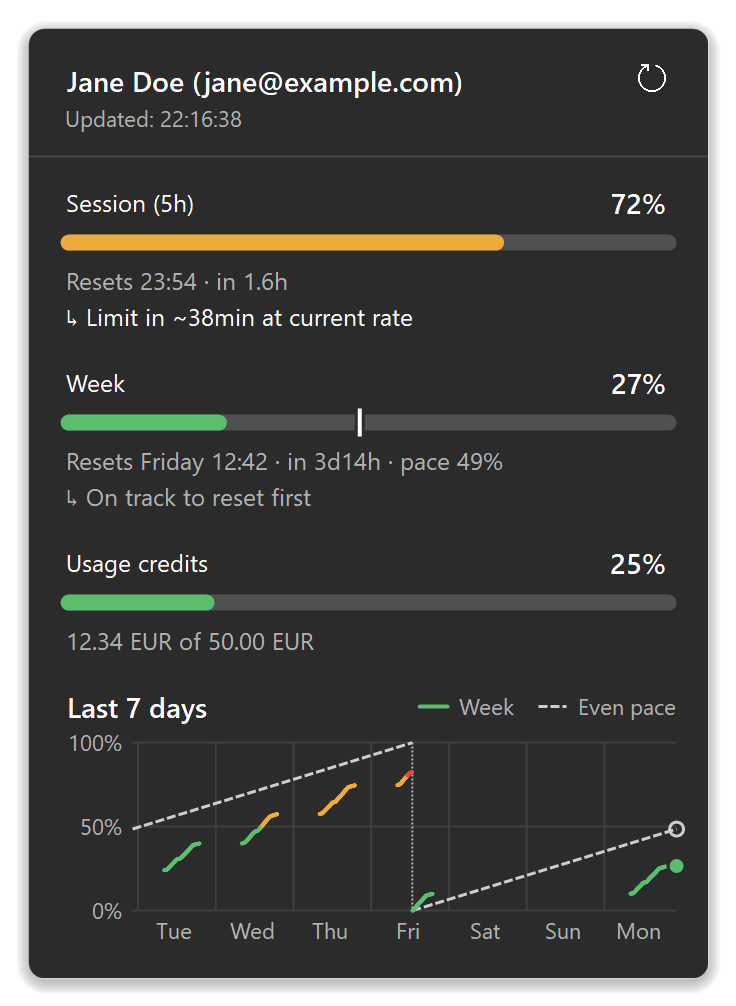
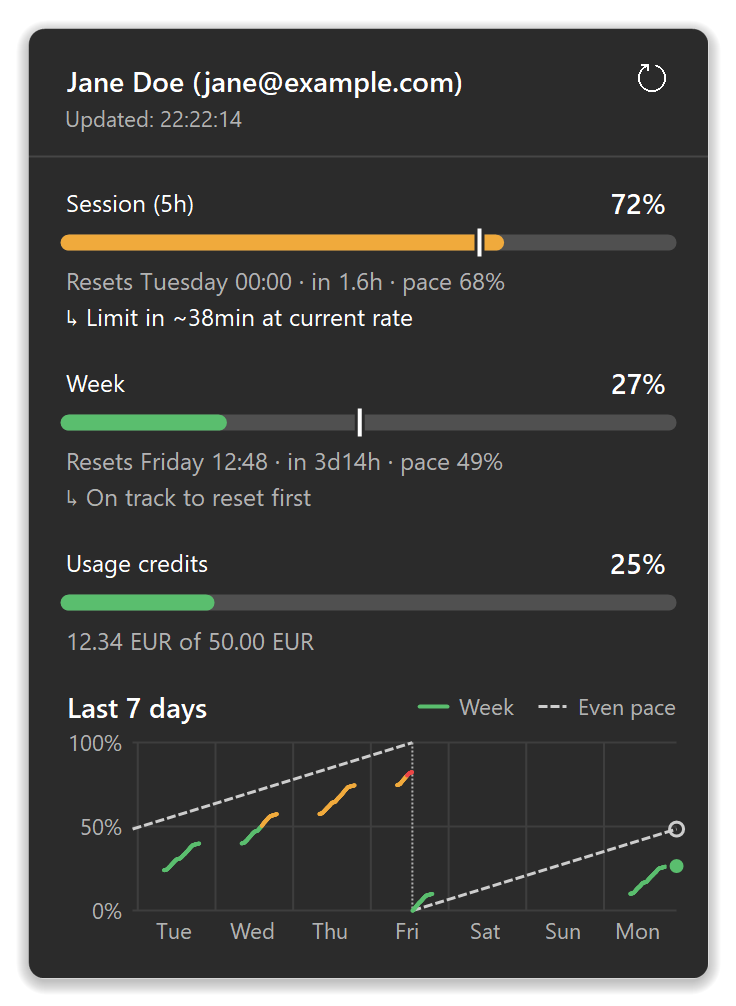
Add pace marker to 5h session bar in flyout; refs #9

diff --git a/AIQuota/UsageFlyout.cs b/AIQuota/UsageFlyout.cs
@@ -422,13 +422,20 @@ internal sealed class UsageFlyout : Form
         if (_state.Snapshot is not { } snapshot)
             return y - S(12f) + S(Pad);
 
-        // Session
+        // Session - with a pace marker like the week's (the same setting turns both on/off),
+        // here for an even spread over the 5 hours. None before a session starts: there's no
+        // clock running yet.
+        double? sessionPace = !_state.SessionNotStarted && snapshot.SessionResetsAt is { } resetForPace
+            ? UsageWindows.SessionPaceFraction(resetForPace, now)
+            : null;
         y = DrawTitleRow(g, Strings.FlyoutSessionTitle, $"{snapshot.SessionPercent}%", left, y, width);
-        DrawBar(g, new RectangleF(left, y, width, S(8f)), snapshot.SessionPercent, _state.SessionNotStarted, paceFraction: null);
+        DrawBar(g, new RectangleF(left, y, width, S(8f)), snapshot.SessionPercent, _state.SessionNotStarted,
+            paceFraction: _state.ShowPaceMarker ? sessionPace : null);
         y += S(8f) + S(6f);
         var sessionDetail = _state.SessionNotStarted || snapshot.SessionResetsAt is not { } sessionReset
             ? Strings.FlyoutSessionNotStarted
-            : Strings.FlyoutResetLine(sessionReset, now);
+            : Strings.FlyoutResetLine(sessionReset, now)
+                + (_state.ShowPaceMarker && sessionPace is { } sp ? Strings.PaceSuffix((int)Math.Round(sp * 100)) : "");
         DrawText(g, sessionDetail, _bodyFont, _palette.Secondary, new RectangleF(left, y, width, S(18f)));
         y += S(18f);
         y = DrawForecast(g, _state.SessionForecast, left, y, width);
@@ -443,7 +450,7 @@ internal sealed class UsageFlyout : Form
         if (snapshot.WeeklyResetsAt is { } weeklyReset)
         {
             var weekDetail = Strings.FlyoutResetLine(weeklyReset, now)
-                + (_state.ShowPaceMarker && pace is { } p ? Strings.WeeklyPaceSuffix((int)Math.Round(p * 100)) : "");
+                + (_state.ShowPaceMarker && pace is { } p ? Strings.PaceSuffix((int)Math.Round(p * 100)) : "");
             DrawText(g, weekDetail, _bodyFont, _palette.Secondary, new RectangleF(left, y, width, S(18f)));
             y += S(18f);
         }
@@ -494,8 +501,8 @@ internal sealed class UsageFlyout : Form
     }
 
     /// <summary>A large usage bar: the same track/fill/colour rules as the tray icon's (an
-    /// outline-only track before a session starts), plus - for the week - the pace marker as
-    /// a tick that sticks out a little above and below the bar.</summary>
+    /// outline-only track before a session starts), plus - for the session and the week - the
+    /// pace marker as a tick that sticks out a little above and below the bar.</summary>
     private void DrawBar(Graphics? g, RectangleF rect, int percent, bool outlineOnly, double? paceFraction)
     {
         if (g is null)

diff --git a/AIQuota/Localization/Strings.cs b/AIQuota/Localization/Strings.cs
@@ -194,7 +194,7 @@ public static class Strings
     public static string StatusUpdated(DateTimeOffset time) => T($"Stand: {time:HH:mm:ss}", $"Updated: {time:HH:mm:ss}");
 
     /// <param name="weeklyPacePercent">Where even usage over the week would be by now - appended
-    /// to the week line as <see cref="WeeklyPaceSuffix"/> when set.</param>
+    /// to the week line as <see cref="PaceSuffix"/> when set.</param>
     /// <param name="sessionLimitIn">Forecast time until the session limit - appended to the
     /// session line as <see cref="ForecastTooltipSuffix"/> when set.</param>
     /// <param name="weeklyLimitIn">Same for the week line.</param>
@@ -202,7 +202,7 @@ public static class Strings
     {
         var sessionRemaining = (sessionResetsAt is null ? SessionNotStartedSuffix : FormatCompactRemaining(sessionResetsAt))
             + ForecastTooltipSuffix(sessionLimitIn);
-        var weeklyRemaining = FormatCompactRemaining(weeklyResetsAt) + WeeklyPaceSuffix(weeklyPacePercent)
+        var weeklyRemaining = FormatCompactRemaining(weeklyResetsAt) + PaceSuffix(weeklyPacePercent)
             + ForecastTooltipSuffix(weeklyLimitIn);
         var time = fetchedAt.ToLocalTime().ToString("HH:mm");
         var creditsLine = creditPercent is { } cp ? T($"\nGuthaben: {cp}%", $"\nCredits: {cp}%") : "";
@@ -257,9 +257,10 @@ public static class Strings
     public static string WeeklyLabel(int percent, string resetSuffix) =>
         T($"Woche: {percent}%{resetSuffix}", $"Week: {percent}%{resetSuffix}");
 
-    /// <summary>Appended to the week percentage, in the tooltip and the context menu, with the
-    /// weekly pace (e.g. " · pace 43%"); empty when there's no pace to show.</summary>
-    public static string WeeklyPaceSuffix(int? pacePercent) =>
+    /// <summary>Appended to a usage line with its pace (e.g. " · pace 43%"): the week in the
+    /// tooltip, context menu and flyout, the session in the flyout. Empty when there's no
+    /// pace to show.</summary>
+    public static string PaceSuffix(int? pacePercent) =>
         pacePercent is { } p ? T($" · Pace {p}%", $" · pace {p}%") : "";
 
     // Built by hand rather than via CultureInfo.GetCultureInfo("de-DE") because the app runs

diff --git a/tools/Screenshots/Program.cs b/tools/Screenshots/Program.cs
@@ -145,7 +145,7 @@ double WeeklyPacePercent() => (1 - (weeklyReset - now) / TimeSpan.FromDays(7)) *
     menu.Items.Add(Item(Strings.UserLabel(Account), false));
     menu.Items.Add(Item(Strings.SessionLabel(72, Strings.FormatReset(sessionReset)), false));
     menu.Items.Add(Item(Strings.ForecastLimitIn(TimeSpan.FromMinutes(38)), false));
-    menu.Items.Add(Item(Strings.WeeklyLabel(snapshot.WeeklyPercent, Strings.FormatReset(weeklyReset)) + Strings.WeeklyPaceSuffix((int)Math.Round(WeeklyPacePercent())), false));
+    menu.Items.Add(Item(Strings.WeeklyLabel(snapshot.WeeklyPercent, Strings.FormatReset(weeklyReset)) + Strings.PaceSuffix((int)Math.Round(WeeklyPacePercent())), false));
     menu.Items.Add(Item(Strings.ForecastResetFirst, false));
     menu.Items.Add(Item(Strings.CreditsLabel(12.34m, 50m, "EUR"), false));
     menu.Items.Add(Item(Strings.StatusUpdated(snapshot.FetchedAt), false));

diff --git a/AIQuota/UsageWindows.cs b/AIQuota/UsageWindows.cs
@@ -7,6 +7,12 @@ internal static class UsageWindows
     public static readonly TimeSpan Session = TimeSpan.FromHours(5);
     public static readonly TimeSpan Week = TimeSpan.FromDays(7);
 
+    /// <summary>Elapsed fraction (0-1) of the 5-hour session that resets at <paramref
+    /// name="sessionResetsAt"/>, at <paramref name="time"/> - i.e. where usage would be if the
+    /// session's quota were spread evenly over the 5 hours.</summary>
+    public static double SessionPaceFraction(DateTimeOffset sessionResetsAt, DateTimeOffset time) =>
+        Math.Clamp(1.0 - (sessionResetsAt - time) / Session, 0.0, 1.0);
+
     /// <summary>Start of the weekly window that resets at <paramref name="weeklyResetsAt"/>.</summary>
     public static DateTimeOffset WeekStart(DateTimeOffset weeklyResetsAt) => weeklyResetsAt - Week;
 

diff --git a/AIQuota/UsageTrayContext.cs b/AIQuota/UsageTrayContext.cs
@@ -711,7 +711,7 @@ public sealed class UsageTrayContext : ApplicationContext
 
     private void ApplyWeeklyMenuText(UsageSnapshot snapshot) =>
         _weeklyItem.Text = Strings.WeeklyLabel(snapshot.WeeklyPercent, Strings.FormatReset(snapshot.WeeklyResetsAt))
-            + Strings.WeeklyPaceSuffix(WeeklyPacePercent);
+            + Strings.PaceSuffix(WeeklyPacePercent);
 
     private void SetIcon(Icon icon)
     {

diff --git a/README.md b/README.md
@@ -46,7 +46,9 @@ flyouts. It shows:
 - your account, when the data was last updated, and a refresh button
 - the session, week and (when your plan has them) credit usage as large bars, with the
   reset time as both clock time and countdown (`Resets 14:30 · in 1.6h`)
-- the [weekly pace marker](#weekly-pace-marker) on the week bar
+- a [pace marker](#weekly-pace-marker) on the week bar, and one on the session bar for an
+  even spread over the 5 hours (`Resets 14:30 · in 1.6h · pace 68%`; not shown before a
+  session starts)
 - the [burn-rate forecast](#usage-history-and-forecast) under each bar
 - a chart of your weekly usage over the **last 7 days**
 
@@ -140,7 +142,8 @@ percentage, e.g. `Week: 62% (2d3h) · pace 43%`. If the tooltip would get too lo
 new version available, it can reach Windows' 127-character limit), it leaves out the pace.
 
 It can be turned off under **Settings → Show weekly pace marker**, which also removes the
-pace value from the tooltip and the menu.
+pace value from the tooltip and the menu, and both pace markers from the
+[flyout](#tray-flyout).
 
 ### Usage history and forecast
 
